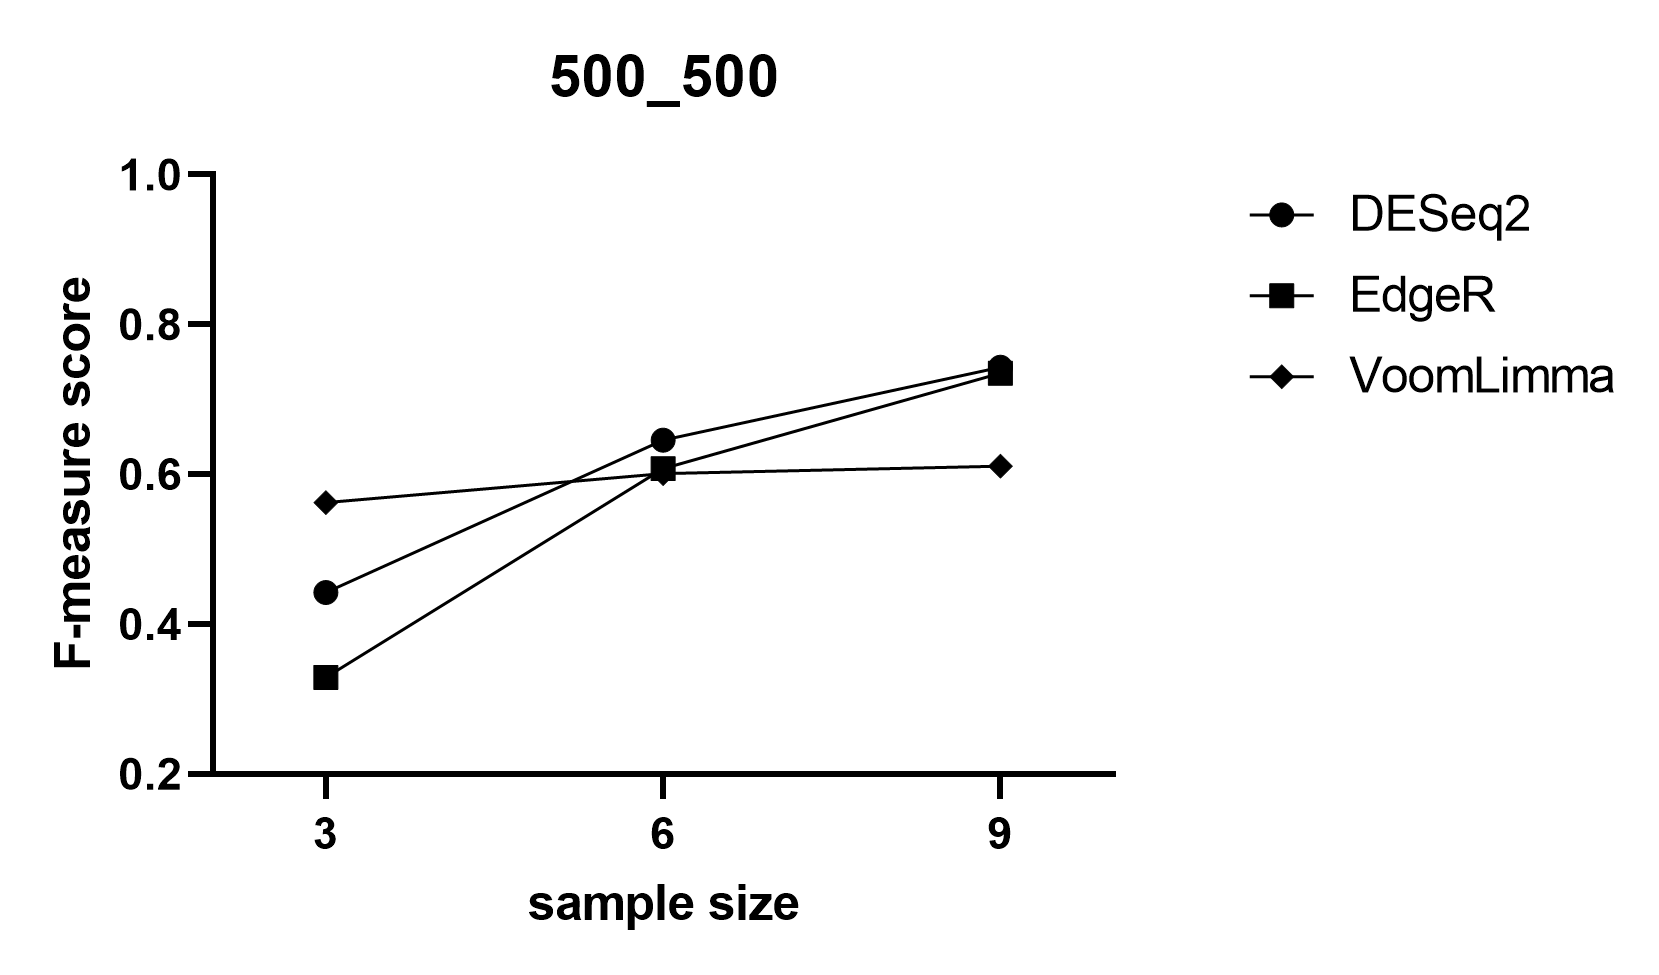
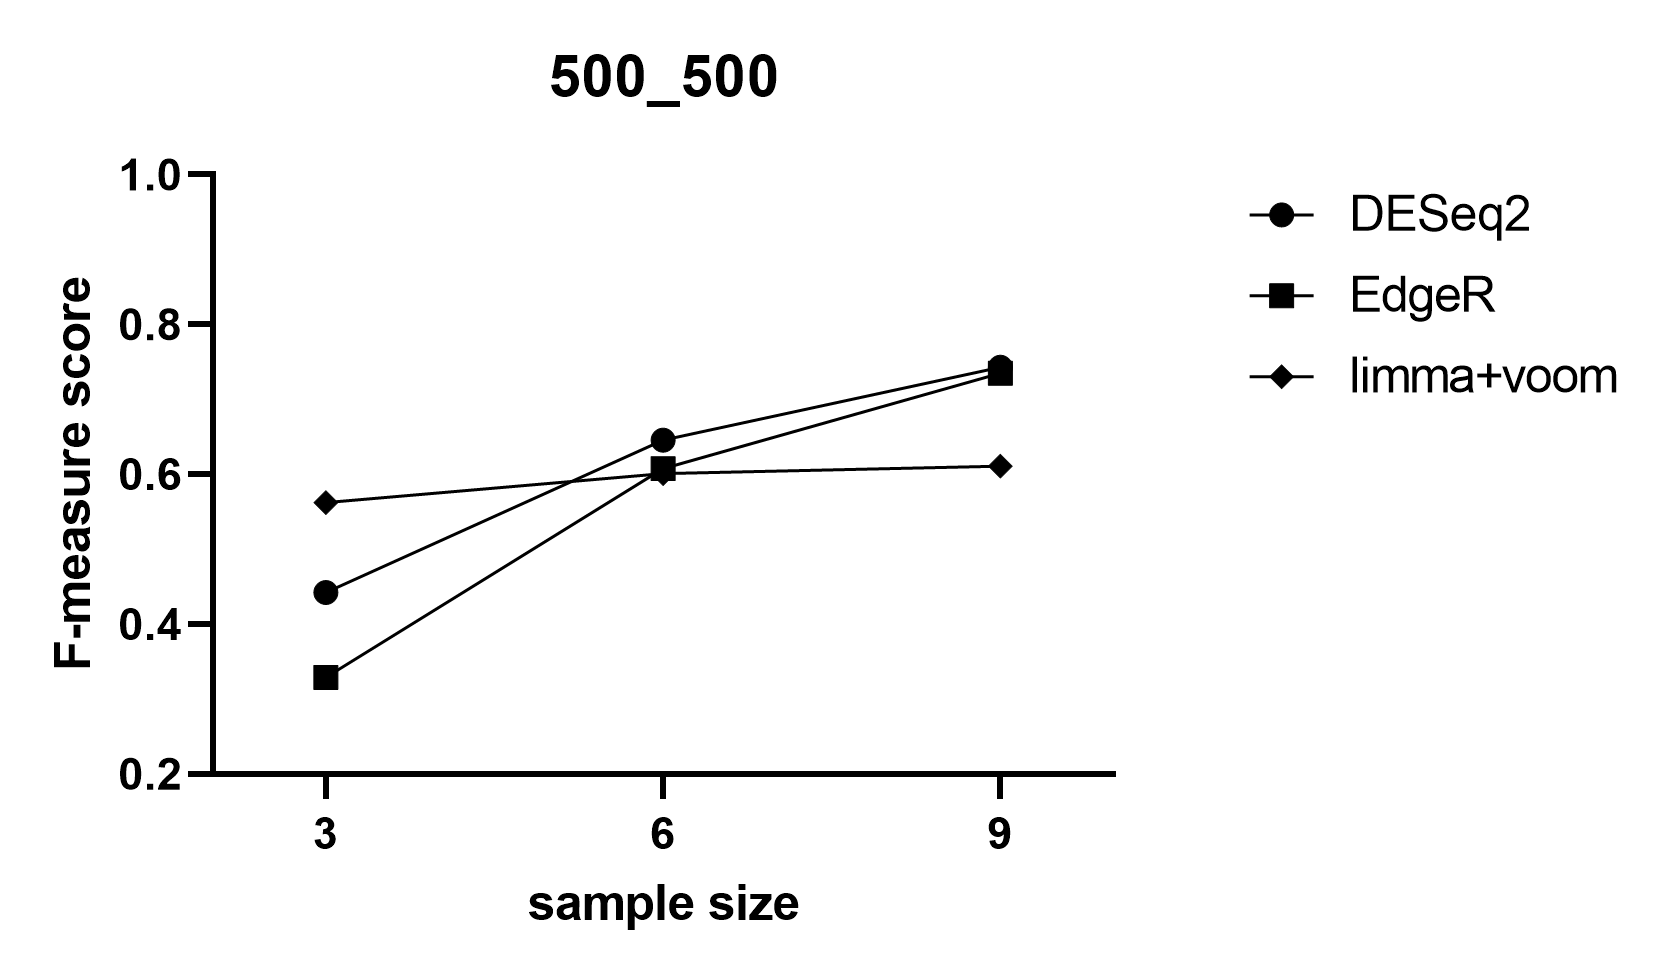
legend update

diff --git a/README.md b/README.md
@@ -7,7 +7,7 @@ This project aims to compare tools that analyze differential gene expression usi
 Synthetic count matrices were generated and provided for the comparison which included two conditional groups, condition 1 and condition 2, with varying sample sizes from 3 to 9 per group and approximately ten thousand genes. 
 A separate meta file was also provided that indicated whether condition 2 genes were either upregulated, downregulated or differentially expressed compared to condition 1.
 
-Differential expression tools have four basic functions. Normalisation, dispersion estimation, differential expression followed by statistical analysis.
+Differential expression tools have four basic functions, normalisation, dispersion estimation, differential expression followed by statistical analysis.
 
 Normalisation
 
@@ -73,3 +73,9 @@ This study found that there were notable differences in the time required for th
 
 ## References
 Saito T, Rehmsmeier M. The precision-recall plot is more informative than the ROC plot when evaluating binary classifiers on imbalanced datasets. PLoS One. 2015 Mar 4;10(3):e0118432. doi: 10.1371/journal.pone.0118432. PMID: 25738806; PMCID: PMC4349800.
+Law, C.W., Chen, Y., Shi, W. et al. voom: precision weights unlock linear model analysis tools for RNA-seq read counts. Genome Biol 15, R29 (2014). https://doi.org/10.1186/gb-2014-15-2-r29
+Love, M.I., Huber, W. & Anders, S. Moderated estimation of fold change and dispersion for RNA-seq data with DESeq2. Genome Biol 15, 550 (2014). https://doi.org/10.1186/s13059-014-0550-8
+Mark D. Robinson, Davis J. McCarthy, Gordon K. Smyth, edgeR: a Bioconductor package for differential expression analysis of digital gene expression data, Bioinformatics, Volume 26, Issue 1, 1 January 2010, Pages 139–140, https://doi.org/10.1093/bioinformatics/btp616
+Soneson, C., Delorenzi, M. A comparison of methods for differential expression analysis of RNA-seq data. BMC Bioinformatics 14, 91 (2013). https://doi.org/10.1186/1471-2105-14-91
+Hanley JA, McNeil BJ. The meaning and use of the area under a receiver operating characteristic (ROC) curve. Radiology. 1982;143: 29–36. pmid:7063747
+
